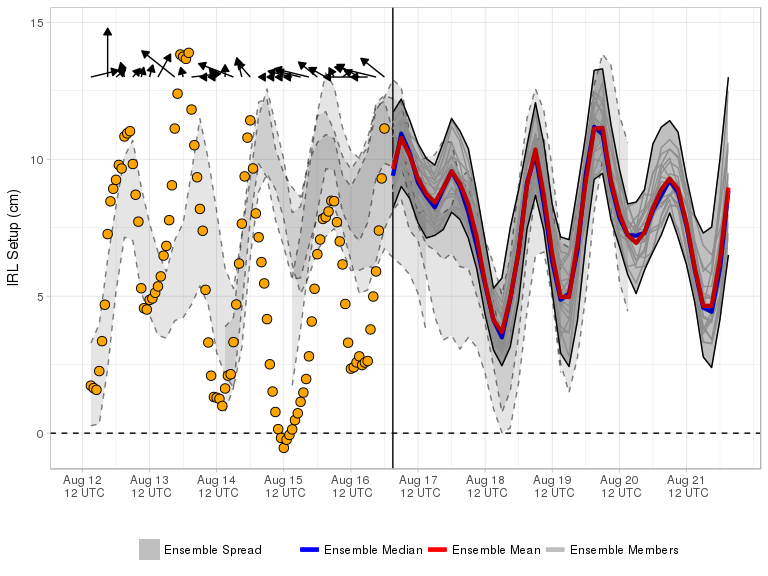
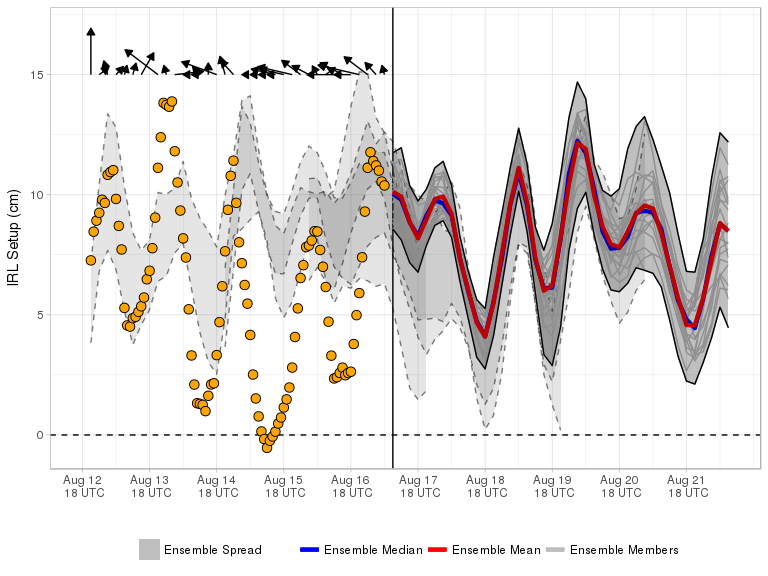
Forecast Update

Changed region(s): [[0.0625, 0.0625, 1.0, 0.8125], [0.0938, 0.0312, 0.1562, 0.0625]]

diff --git a/docs/index.md b/docs/index.md
@@ -1,9 +1,9 @@
-Current Forecast 2018-08-16, Cycle 18 UTC
+Current Forecast 2018-08-17, Cycle 00 UTC
 -----------------------------------------
 
 [![](img/raw_setup.png)](https://fit-winds.github.io/IRLSetup/img/raw_setup.png)
 
-> Forecast valid 2018-08-16 20:24:10.
+> Forecast valid 2018-08-17 02:24:06.
 
 Explanation
 -----------
@@ -23,7 +23,7 @@ Ensemble Forecast System
 cycles. Calculation of the IRL setup is performed shortly after a new
 GEFS cycle is made available on the [data access
 link](http://www.ftp.ncep.noaa.gov/data/nccf/com/gens/prod/). The
-current cycle 2018-08-16 18 UTC 0.5° GEFS mean and median forecasts of
+current cycle 2018-08-17 00 UTC 0.5° GEFS mean and median forecasts of
 setup are represented by the red and blue curves, respectively. Ensemble
 spread from the current and three previous GEFS runs are shaded grey and
 bounded by solid and dashed curves, respectively.
@@ -47,5 +47,6 @@ Reference
 [Wind driven setup in east central Florida's Indian River Lagoon:
 Forcings and
 pameterizations](https://www.sciencedirect.com/science/article/pii/S0272771418303421)
-Jeffrey Colvin, Steven Lazarus, Michael Splitt, Robert Weaver,
-PeymanTaeb.
+
+Jeffrey Colvin, Steven Lazarus, Michael Splitt, Robert Weaver, Peyman
+Taeb.
